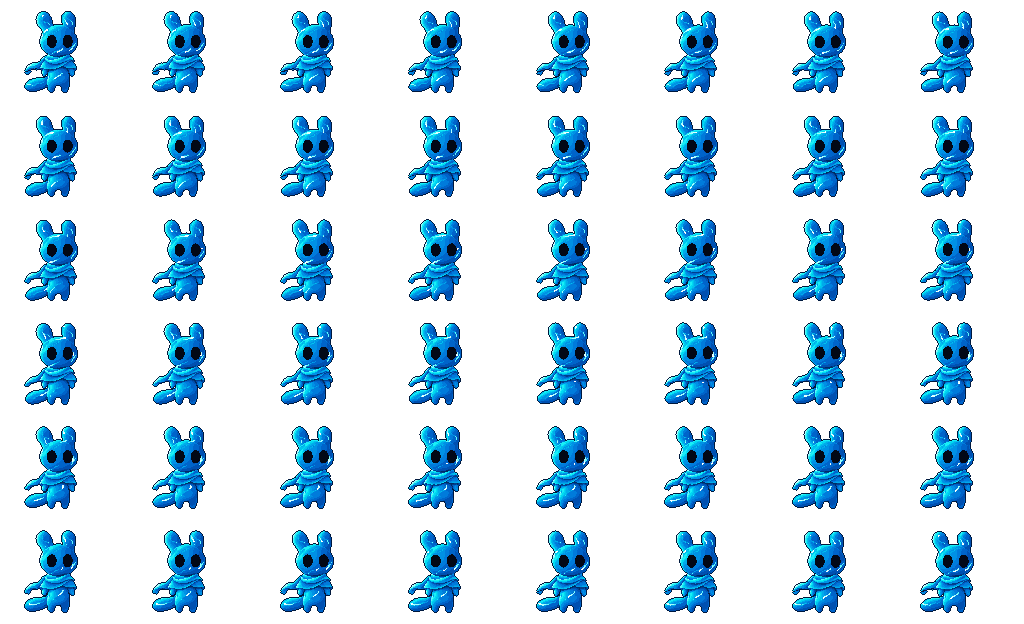
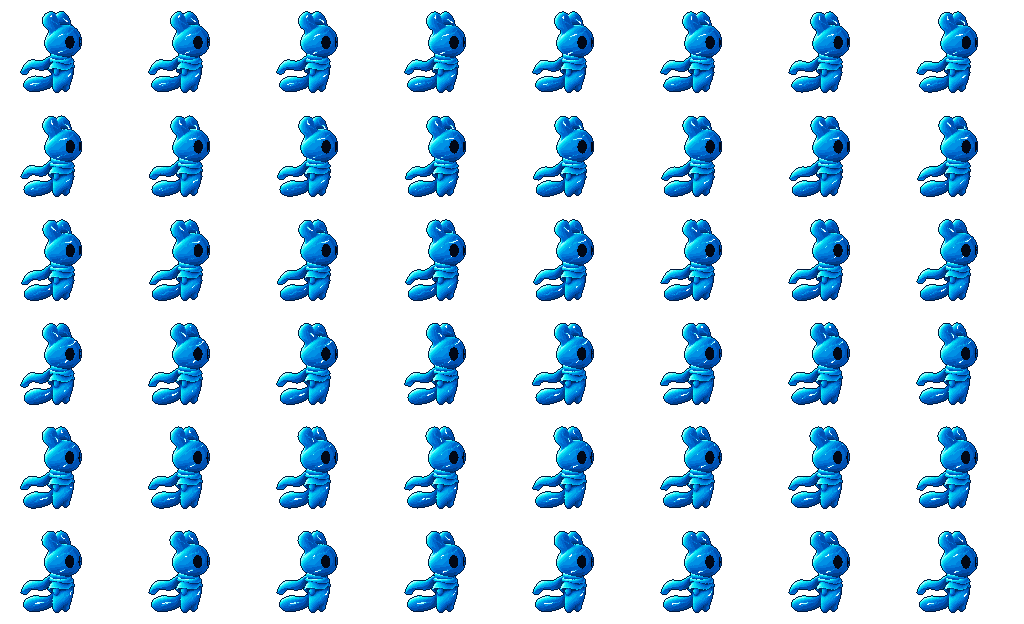
fix(art): 게임 idle을 새 측면 모션으로 교체
잠정 승인 망토 바람 v2 시트를 복사하고 기준점을 맞췄다. 좌측은 기존 반전을 재사용하며 몸체 높이가 같아 점프 수치는 유지한다.

실제 자산 통합 검사 1개와 SDL smoke를 통과했다. 좌우 캡처·원본 바이트·문서 링크·공백을 확인했으며 전체 회귀는 자산 교체 범위 밖이라 생략했다.

diff --git a/tests/integration/test_character_scene.py b/tests/integration/test_character_scene.py
@@ -49,7 +49,7 @@ class CharacterSceneTests(unittest.TestCase):
                     self.assertEqual(right.durations, (.03,) * 16)
                     self.assertEqual(idle.frames[-1].rect, (896, 520, 128, 104))
                     self.assertEqual(tuple(clip.frames[0].pivot for clip in (idle, left, right)),
-                                     tuple((x / 128, 92 / 104) for x in (58, 63, 64)))
+                                     tuple((x / 128, 92 / 104) for x in (64, 63, 64)))
                     image = idle.frames[0].image
                     self.assertIsNot(image, previous)
                     self.assertTrue(all(frame.image is image for frame in idle.frames))

diff --git a/docs/art-direction.md b/docs/art-direction.md
@@ -26,12 +26,12 @@
 
 ## 현재 제작 상태
 
-2026-11-13 사용자 결정까지 반영했다. 게임 전체 아트 스타일·규격은 미정이며 아래 후보의 규격을 전체 게임 규격으로 확대하지 않는다. 게임에 사용할 idle v7·좌우 Run v4·공격 v6 아웃라인 있음·전기 베기 v4 복사본을 assets/warden에 배치했다. 기본 플레이 장면에 표시·이동·공격·베기 연결을 구현하고 실제 PNG·SDL 출력을 확인했다. 사용자 직접 품질 평가는 미확인이다.
+2026-11-13 사용자 결정까지 반영했다. 게임 전체 아트 스타일·규격은 미정이며 아래 후보의 규격을 전체 게임 규격으로 확대하지 않는다. 게임에 사용할 측면 idle 망토 바람 v2·좌우 Run v4·공격 v6 아웃라인 있음·전기 베기 v4 복사본을 assets/warden에 배치했다. 기본 플레이 장면에 표시·이동·공격·베기 연결을 구현하고 실제 PNG·SDL 출력을 확인했다. 사용자 직접 품질 평가는 미확인이다.
 
 | 대상 | 현재 상태·결과 | 유지할 기준 |
 |---|---|---|
 | idle | [비무장 v7](../art/warden/provisional-approved/idle-unarmed-v7/unarmed/preview.gif) 잠정 승인 | idle 중 비발검, hibit·16색, 128×104, 48프레임·2초 |
-| 측면 idle | [망토 바람 v2](../art/warden/provisional-approved/idle-side-wind-v2/review.html) 잠정 승인 | 2026-11-13 사용자 결정. Run과 동일한 측면 원화·비무장·hibit 16색, 128×104, 방향별 48프레임·2초. 망토 끝으로 약한 바람 물결을 추가했다. 96개 프레임·시트를 원본과 해시가 같게 보관했다. 기존 idle v7의 승인·게임 사용은 유지하며 측면 idle은 미통합. 코드 변형이며 천의 접힘·충돌은 미계산 |
+| 측면 idle | [망토 바람 v2](../art/warden/provisional-approved/idle-side-wind-v2/review.html) 잠정 승인 | 2026-11-13 사용자 결정. Run과 동일한 측면 원화·비무장·hibit 16색, 128×104, 방향별 48프레임·2초. 망토 끝으로 약한 바람 물결을 추가했다. 96개 프레임·시트를 원본과 해시가 같게 보관했다. 기존 idle v7의 승인·원본은 보존하고 후속 사용자 요청으로 게임 idle을 이 시트로 교체했다. 오른쪽 시트와 기존 런타임 반전을 사용한다. 코드 변형이며 천의 접힘·충돌은 미계산 |
 | 걷기 | [좌우 v4](../art/warden/provisional-approved/walk-v4/both.gif) 잠정 승인 | 짧은 다리·둥근 골반, 128×104, 방향별 24프레임·1초 |
 | Run | [복원·경계 수정 v4](../art/warden/provisional-approved/run-v4/review.html) 잠정 승인 | 청색 명암·짧은 귀와 팔·골반 연동·꼬리와 다리 경계 보존, 전류·천·귀·꼬리 관성 유지. 128×104, 방향별 16프레임·480ms |
 | 기존 Run v3 | [보존본](../art/warden/provisional-approved/run-v3/README.md) 이전 후보로 강등 | 2026-11-10 사용자 결정으로 잠정 승인에서 제외. 프레임과 과거 승인 기록 보존 |
@@ -61,3 +61,5 @@
 ## 게임에서 사용하는 캐릭터 자산
 
 2026-11-11 사용자 요청에 따라 idle v7·Run v4의 PNG 시트 3장을 `assets/warden/idle.png`, `run_left.png`, `run_right.png`로 복사했다. 이름의 버전을 제거했으며 원본 PNG 바이트와 프레임별 시간·기준점을 보존했다. [게임 자산 출처](../assets/warden/README.md)에 원본 경로·SHA-256을, animations.json에 런타임 규격을 기록한다. .gitattributes는 PNG를 일반 Git 바이너리로 관리한다. 후속 사용자 지시로 assets/warden/attack.png는 v6 아웃라인 있음 시트를 변경 없이 사용한다. 기존 v5 원본과 무외곽선 v6 후보를 보존한다. 7프레임·350ms·기준점 (96,120)을 보존하며 왼쪽은 런타임 수평 반전이다. 실제 SDL 첫 프레임·양 방향 출력·발 기준점을 확인했다. 전기 베기 v4는 assets/warden/sword_trail.png로 복사해 14프레임·700ms와 같은 기준점을 보존했다. MIT 고지는 licenses/pixelfx-LICENSE.txt 한 곳에서 공통 관리한다. 걷기는 포함하지 않는다. 이번 요청은 아웃라인 공격의 게임 사용 선택과 베기 통합 근거이며, 최종 게임 아트 규격·품질 승인으로 확대하지 않는다.
+
+2026-11-13 측면 idle 교체 요청으로 idle.png를 망토 바람 v2/idle_right/sheet.png로 대체했다. 48프레임·2초와 기준점 (64,92)을 사용한다. 좌측 원본은 우측의 정확한 수평 반전이므로 런타임 반전을 재사용한다. 기존 idle v7 원본은 보존한다.

diff --git a/docs/progress.md b/docs/progress.md
@@ -4,7 +4,7 @@
 
 ## 현재 단계
 
-- **측면 idle 잠정 승인:** 2026-11-13 사용자 지시로 망토 바람 v2의 좌우 96프레임을 art/warden/provisional-approved/idle-side-wind-v2에 보관했다. 원본 복사 해시·48프레임/방향·2초 반복을 확인했다. 기존 idle v7과 게임 자산은 유지하며 신규 측면 idle은 미통합이다. [아트 기준](art-direction.md#현재-제작-상태).
+- **측면 idle 잠정 승인:** 2026-11-13 사용자 지시로 망토 바람 v2의 좌우 96프레임을 art/warden/provisional-approved/idle-side-wind-v2에 보관했다. 원본 복사 해시·48프레임/방향·2초 반복을 확인했다. 후속 사용자 교체 요청으로 오른쪽 시트를 게임 idle.png에 복사하고 기존 반전 재생을 유지했다. 기존 idle v7 원본은 보존한다. 실제 PNG 통합 검사 1개와 SDL smoke 통과, 좌우 idle 캡처에서 방향·접지를 확인했다. [아트 기준](art-direction.md#현재-제작-상태).
 
 - **점프 구현·검증:** 2026-11-13 사용자 요청으로 idle/Run을 재사용한 제자리·달리기 점프를 연결했다. 정점/착지·공중 A/D·공격/중복 입력 배제의 표적 검사와 실제 SDL 창 검사를 통과했다. 후속 요청으로 높이는 캐릭터 키의 2배로 낮췄으며 이번 수치 변경은 사용자 지시로 테스트를 실행하지 않았다. 이전 검사 결과는 3배 구현 당시 결과다. 공중 공격 제외는 사용자 결정이다. [기본 조작](systems/basic-gameplay.md)의 Space·체공 시간은 기술 기본안이다.
 
@@ -15,7 +15,7 @@
 - **기본 게임플레이 011 구현·검증 완료:** feature/basic-gameplay에서 GameplayMode, Warden A/D 이동·왼쪽 클릭 단발 공격을 연결했다. 공격 중 정지·방향 고정, 추가 클릭 무시, 종료 후 현재 유지 키 반영은 [기본 조작](systems/basic-gameplay.md)을 따른다. [명세](../specs/011-basic-gameplay/spec.md)·[계획](../specs/011-basic-gameplay/plan.md)·[검증](../specs/011-basic-gameplay/verification.md).
 - **검증:** 게임 상태·실제 PNG·수명 표적 15개 통과. 실제 SDL 창의 양 방향 공격·복귀·포커스·resize/fullscreen·종료 검사 통과. 첫 프레임과 발 접지를 캡처로 확인했다. 사용자 직접 조작감·미술 품질은 미확인이다.
 - **기반:** 엔진·프레임워크·스프라이트·캐릭터 이동은 PR #3 이후 main에 포함됐다. 이번 입력·재생 감사는 기존 기능을 재사용할 수 있다고 판단해 engine/game_framework를 수정하지 않았다.
-- **아트:** idle v7·좌우 Run v4·공격 v6 아웃라인 있음·전기 베기 v4 시트 5개가 assets/warden에 있다. 공격 원본 SHA-256·7프레임·350ms·기준점을 보존했다. 전기 베기 VFX v4는 2026-11-11 사용자 지시로 잠정 승인하고 art/warden/provisional-approved/sword-trail-electric-v4에 별도 보관했다(14프레임·700ms, 원본 해시 일치). 베기 VFX는 게임에 연결했고 걷기는 미통합이다. 공격의 알려진 형태·전환 한계는 [아트 기준](art-direction.md#현재-제작-상태)을 따른다.
+- **아트:** 측면 idle 망토 바람 v2·좌우 Run v4·공격 v6 아웃라인 있음·전기 베기 v4 시트 5개가 assets/warden에 있다. 공격 원본 SHA-256·7프레임·350ms·기준점을 보존했다. 전기 베기 VFX v4는 2026-11-11 사용자 지시로 잠정 승인하고 art/warden/provisional-approved/sword-trail-electric-v4에 별도 보관했다(14프레임·700ms, 원본 해시 일치). 베기 VFX는 게임에 연결했고 걷기는 미통합이다. 공격의 알려진 형태·전환 한계는 [아트 기준](art-direction.md#현재-제작-상태)을 따른다.
 
 - **공격 아트 파생본:** 2026-11-11 사용자 요청으로 기존 잠정 승인 v5를 “아웃라인 없음”으로 명명했다. 새 검 기준 v6 중 1px 아웃라인 있음 버전을 이번 사용자 요청으로 게임에 사용했다. 기존 승인 프레임·무외곽선 후보는 보존했다. [아트 기준](art-direction.md#현재-제작-상태)을 따르며 최종 미술 품질은 미확인이다.
 

diff --git a/specs/011-basic-gameplay/verification.md b/specs/011-basic-gameplay/verification.md
@@ -109,3 +109,13 @@ game-design·systems/basic-gameplay·architecture·progress 및 011 spec/plan/ta
 ## 점프 높이 수치 조정
 
 2026-11-13 사용자 요청으로 높이 배수를 3→2로 변경했다(83×2=166 월드 단위). 상승 0.4초·전체 체공 약 0.8초는 유지한다. 관련 현재 문서와 기존 테스트의 배수 기대값·이름을 맞췄다. 사용자 지시로 테스트·실제 창 검사는 실행하지 않았다. 위 점프 검증은 변경 전 3배 결과이며 새 높이의 실행 검증으로 취급하지 않는다.
+
+## 측면 idle 교체 (2026-11-13)
+
[1 lines of base64/hex data omitted]
+
+- `.venv/Scripts/python.exe -B -m unittest tests.integration.test_character_scene.CharacterSceneTests.test_real_asset_draw_and_fresh_scene_lifetime -v`: 1개 통과. 실제 PNG·시간·새 pivot·렌더·장면 수명 확인.
+- `.venv/Scripts/python.exe -B tests/smoke/character_smoke.py --output-dir C:/Users/Developer/.codex/visualizations/2026/11/11/01a1cac2-b470-7663-9b16-80b99460d51f/side-idle`: 종료0/PASS. 이동·공격·복귀·제자리/달리기 점프·착지·창 전환·정리 확인.
+- 해당 폴더의 character-idle.png와 character-idle-left.png를 열어 새 측면 모습·좌우 방향·바닥 정렬을 관찰했다. 사용자 직접 플레이/최종 아트 품질 평가와 구분한다.
+
+assets 출처, docs/art-direction·architecture·progress 및 011 spec/plan/tasks를 현재 통합 상태에 맞췄다. 원본 아트·루트 README는 보존했다. Converge 대조에서 추가 필수 작업 없음. 변경 문서 링크와 git diff --check 확인. 전체 회귀는 자산/pivot 교체 범위를 넘어 실행하지 않았다.

diff --git a/assets/warden/README.md b/assets/warden/README.md
@@ -1,10 +1,10 @@
 # 워든 게임 자산
 
-사용자 지시로 잠정 승인 idle v7·Run v4·전기 베기 v4와 이번에 게임 사용으로 선택한 공격 v6 아웃라인 있음 시트를 변경 없이 복사했다. 런타임 파일명에는 버전을 붙이지 않는다. 원본은 art에 보존하며 최종 아트 품질 승인을 뜻하지 않는다.
+사용자 지시로 잠정 승인 측면 idle 망토 바람 v2·Run v4·전기 베기 v4와 이번에 게임 사용으로 선택한 공격 v6 아웃라인 있음 시트를 변경 없이 복사했다. 런타임 파일명에는 버전을 붙이지 않는다. 원본은 art에 보존하며 최종 아트 품질 승인을 뜻하지 않는다.
 
 | 게임 파일 | 원본 | SHA-256 |
 |---|---|---|
-| idle.png | art/warden/provisional-approved/idle-unarmed-v7/unarmed/sheet.png | 232fbad18ced07f1e3f9045cdc61612ac82b38cfc5b85b5070c7d0f8869b3979 |
+| idle.png | art/warden/provisional-approved/idle-side-wind-v2/idle_right/sheet.png | 6cd0b5133576e6f73cb492a0f36e114c160371c33115bda0272d877f7735d506 |
 | run_left.png | art/warden/provisional-approved/run-v4/run_left/sheet.png | 618ef3377b2682ee6d15ab4052a208f041562adcaed406a0361977ca7460940e |
 | run_right.png | art/warden/provisional-approved/run-v4/run_right/sheet.png | c29d16562b7df8a8ec927b031ef1589bdf6252467afb648f1537af60977fc3aa |
 | attack.png | art/warden/attack-sword-v6/bundle-outlined/sheet.png | e7a9a24a46feff5d20ffb20f032b57b9bbd67754c0263e8f5fb162458b7891e6 |
@@ -15,3 +15,5 @@
 공격은 이번 기본 조작 구현 요청으로 연결했다. 192×192·7열·7프레임·각 50ms, 기준점 (96,120), 단발이다. 왼쪽 공격은 런타임 수평 반전이다. 원본의 자세·전류·픽셀은 변경하지 않았다.
 
 베기는 192×192·14열·14프레임·각 50ms, 기준점 (96,120)이다. 원본대로 캐릭터 뒤에서 재생한다. 공격 종료 뒤에도 시작 위치·방향을 유지하며 700ms에 소멸한다. 공격 v5와 무외곽선 v6 원본은 art와 이전 Git 커밋에 보존한다.
+
+idle은 오른쪽 시트 48프레임·2초·기준점 (64,92)을 사용하고 왼쪽은 런타임에서 수평 반전한다. 원본 좌측 48프레임이 우측의 정확한 픽셀 반전임을 확인했다.

diff --git a/specs/011-basic-gameplay/tasks.md b/specs/011-basic-gameplay/tasks.md
@@ -57,3 +57,10 @@ T012→T013→T014→T015→T016 순서. 신규 게임 아트 생성·피해 규
 - [x] T022 docs/game-design.md·architecture.md·progress.md·specs/011-basic-gameplay/verification.md를 구현과 맞추고 converge·문서 검사 후 커밋한다.
 
 T019→T020→T021→T022. FR-010~012·SC-006에 대응한다. 새 점프 아트·공중 공격·플랫폼은 범위 밖이다.
+
+## Phase 8: 측면 idle 교체
+
+- [x] T023 FR-013/SC-007과 원본을 대조하고 idle.png·animations.json·자산 출처·통합 검사 pivot을 교체한다.
+- [x] T024 표적 PNG 검사·SDL 캡처를 확인하고 현재 docs·verification을 갱신해 converge 후 커밋한다.
+
+T023→T024. Analyze 대조: 새 생성/게임 규칙 변경 없이 기존 재생 경로와 검증을 재사용하며 충돌 없음.
